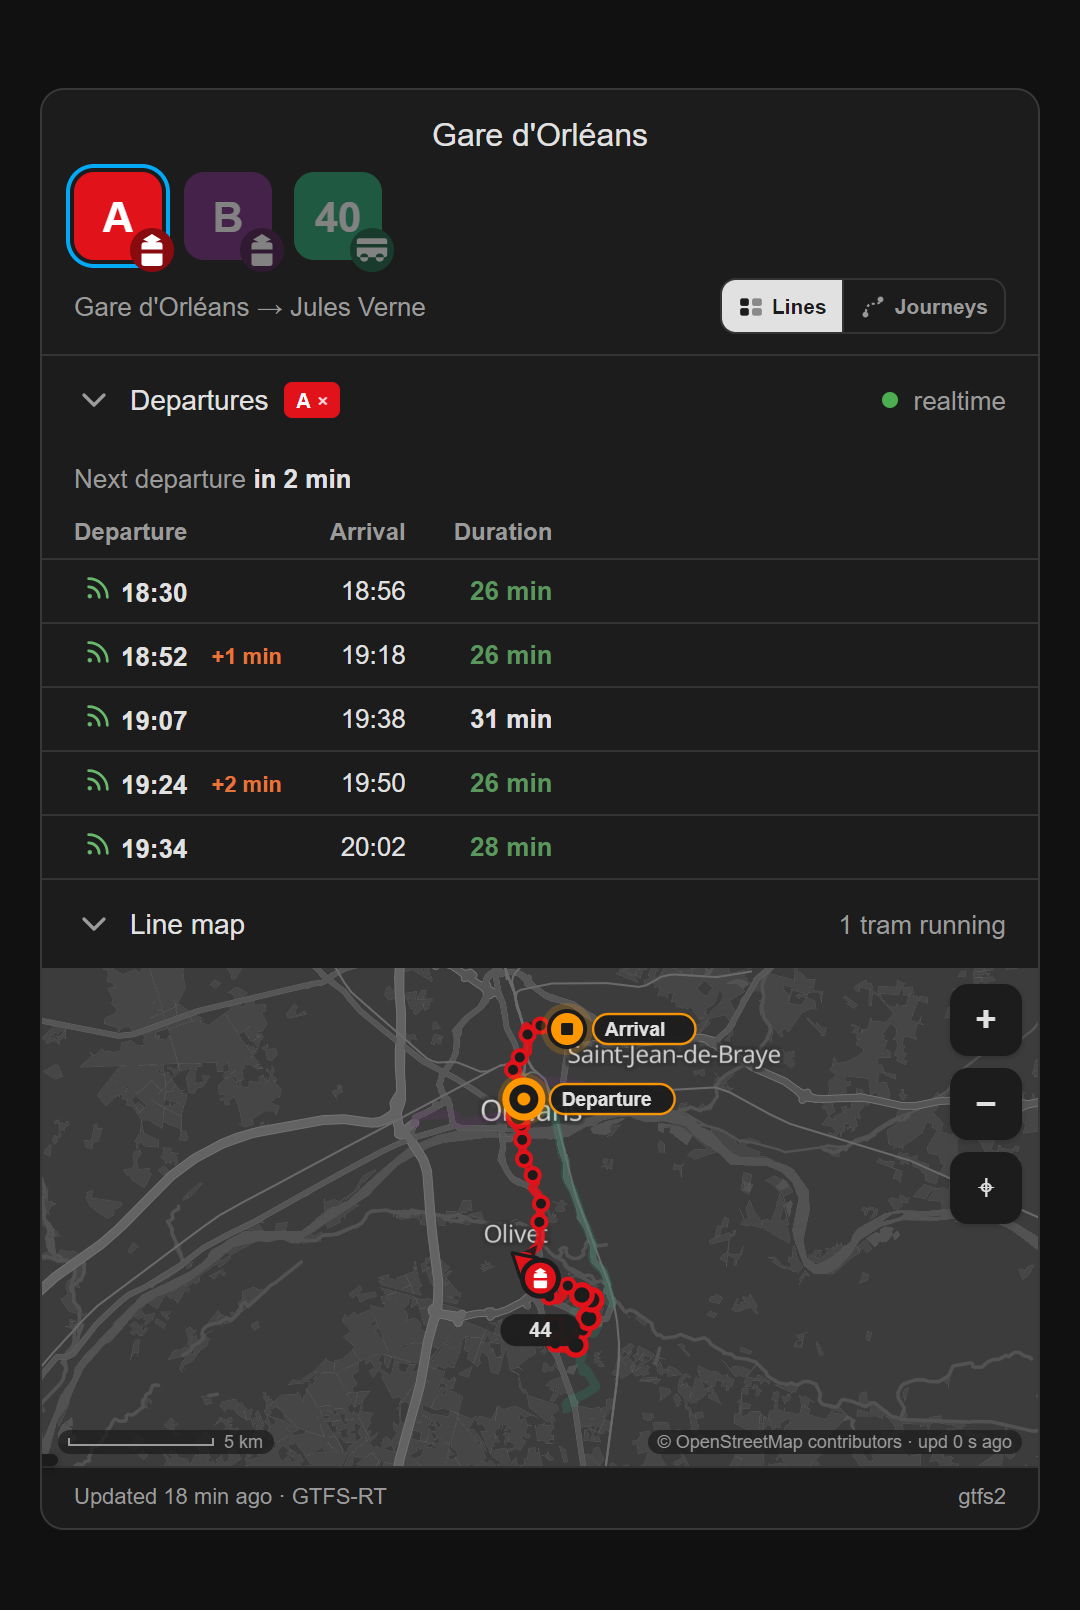
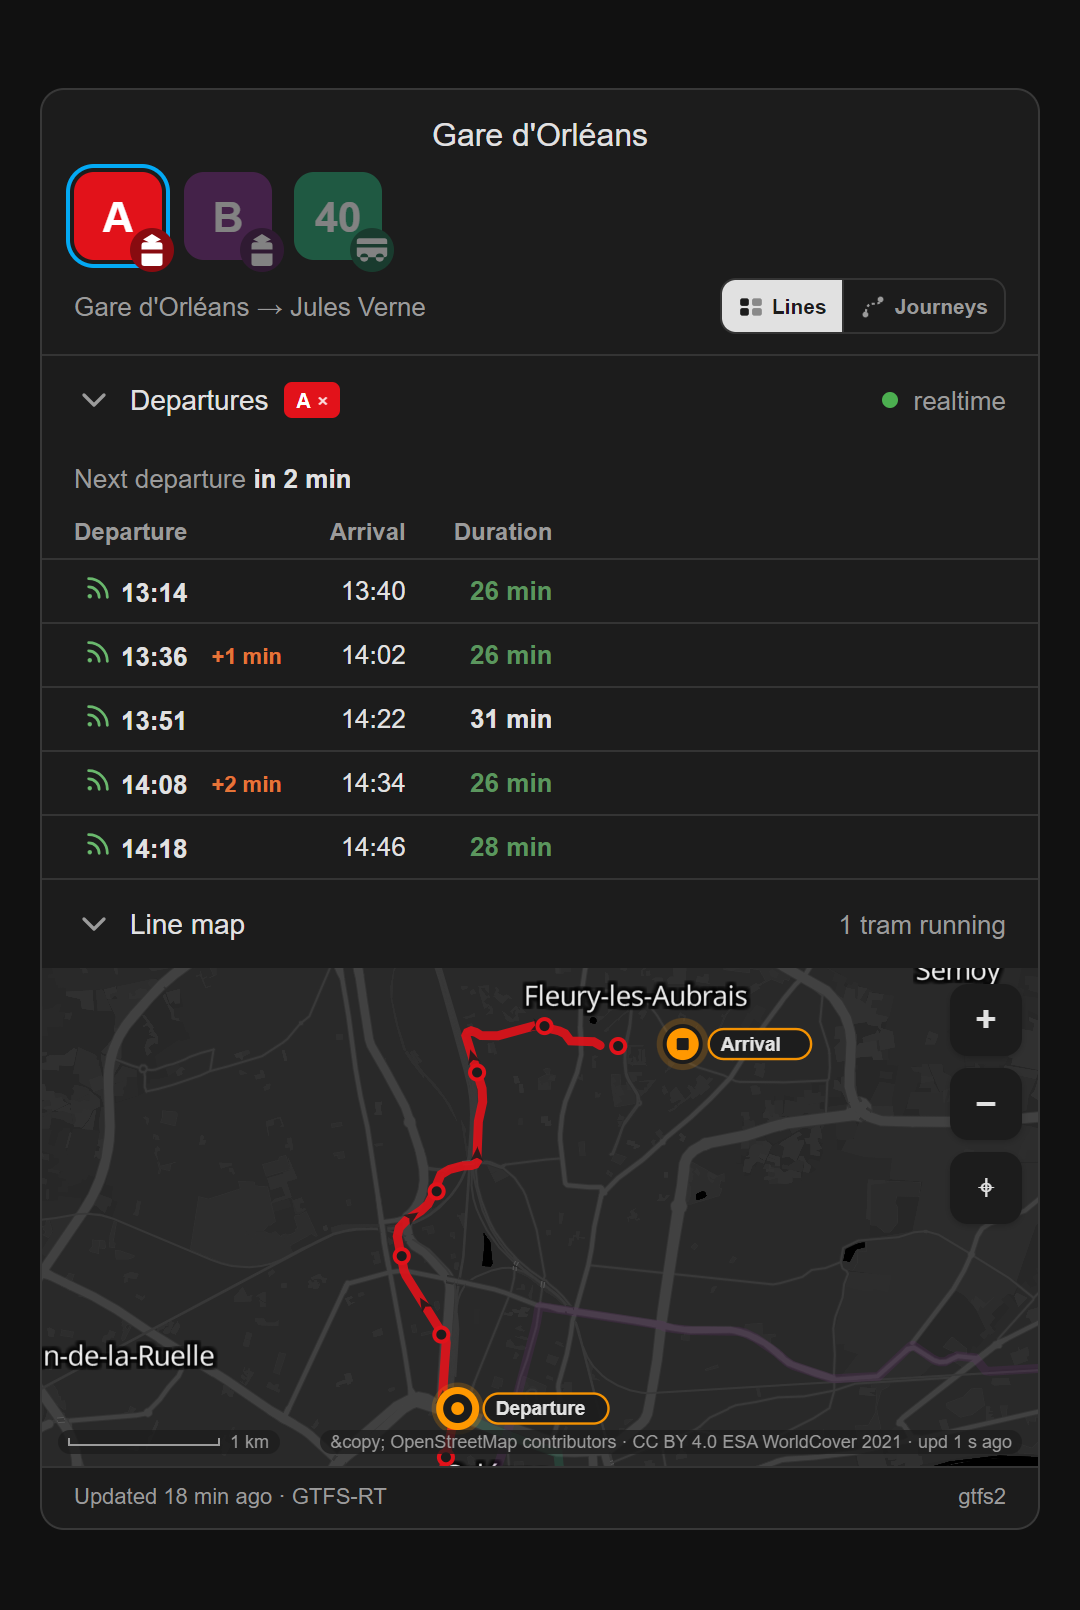
Bring the map onto a line picked on the board of lines
A badge picked on a card of lines alone lit its line and left the view
where it was: the whole network, every vehicle and every shape. The
ground of the picked line, its stretch between the sensor's two ends,
was only read when the card had trips to fit, so the zoom worked on a
board of journeys and never on a board of lines.

With no journey to fit, the view now takes that stretch and the line's
ends, as it does among journeys: tram A in the harness gets a frame
five times narrower. The Journeys view is unchanged.

The selected capture is retaken and the README says the map comes onto
the line.

diff --git a/dist/gtfs2-live-card.js b/dist/gtfs2-live-card.js
@@ -5143,6 +5143,10 @@ class Gtfs2LiveCard extends HTMLElement {
                 // far end of a line are still drawn, off screen until the
                 // user pans there, rather than stretching the view to them
                 pts = [...jGeo.fit, ...stations, ...pickedFit];
+            } else if (pickedFit.length) {
+                // the board of lines has no journey to fit: a line picked
+                // there fits its own ground all the same, not the network's
+                pts = [...pickedFit, ...stations];
             } else {
                 pts = all.map((e) => e.w);
                 pts.push(...stations);

diff --git a/README.md b/README.md
@@ -141,13 +141,13 @@ The header reads the card in one of two ways, switched by the **Lines / Journeys
 
 ### Lines
 
-One badge per line, in its official colour, with its mode and its state marks (see [below](#chip-and-badge-marks)). Tap a badge to keep that line's departures alone on the board, raise its shape above the others on the map, pin its two ends and keep only the vehicles running the departures on the board. Tap it again, or the chip in the departures pane's head, to go back to all lines.
+One badge per line, in its official colour, with its mode and its state marks (see [below](#chip-and-badge-marks)). Tap a badge to keep that line's departures alone on the board, bring the map onto the line between its two ends, raise its shape above the others, pin those ends and keep only the vehicles running the departures on the board. Tap it again, or the chip in the departures pane's head, to go back to all lines.
 
 In this view, the departures of a line also give their time at the stops where your trips get on it or off it on its way, Les Aubrais on a train from Orléans a trip boards there: under the row in the list, in a **Via** column in the table.
 
 ![Tram A picked from its badge](images/selected-light.png)
 
-*Tram A picked from its badge: the board keeps its departures only, and the map raises its shape, pins its ends and keeps only the tram running the first of those departures.*
+*Tram A picked from its badge: the board keeps its departures only, and the map comes onto it, raises its shape, pins its ends and keeps only the tram running the first of those departures.*
 
 ### Journeys
 
